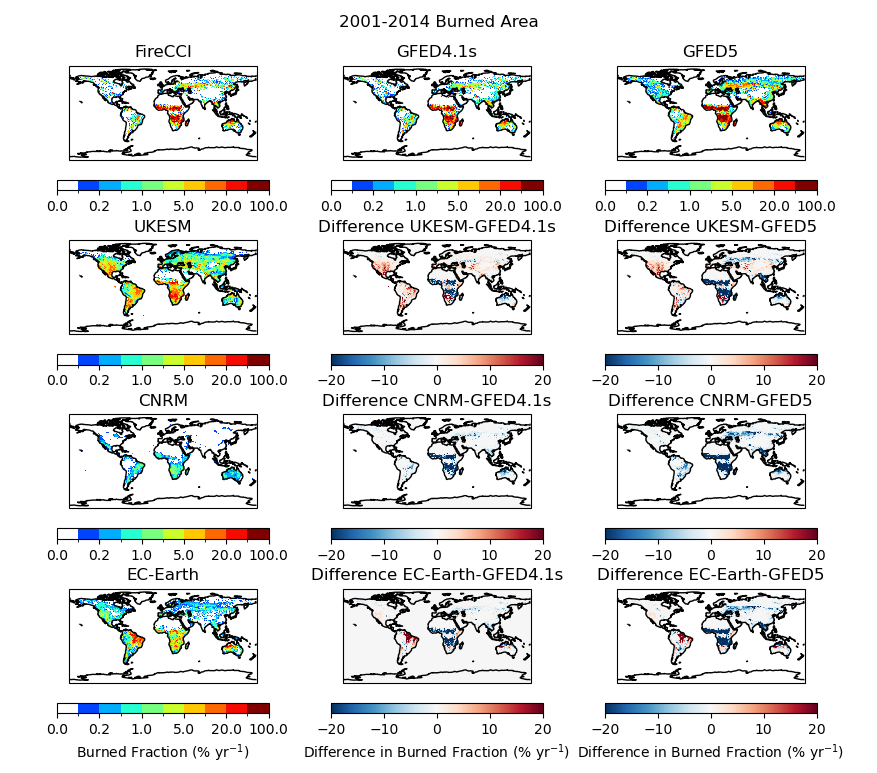
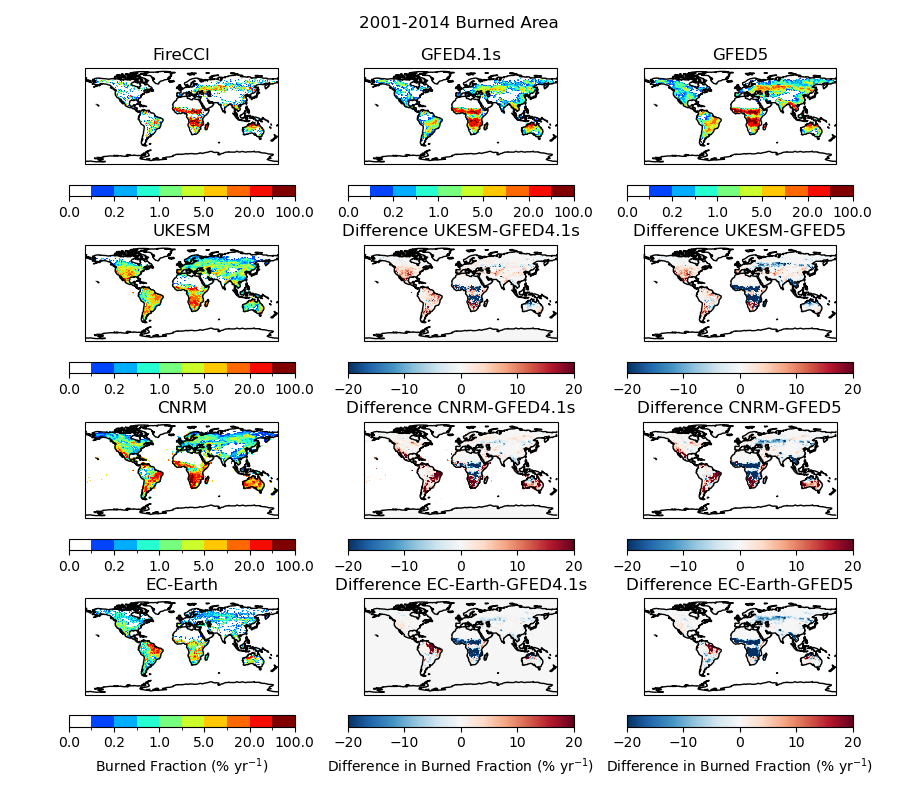
Updating scripts and figures

Changed region(s): [[0.0616, 0.0, 0.9544, 0.9935]]

diff --git a/BA_MAPS.py b/BA_MAPS.py
@@ -105,13 +105,14 @@ ens3 = iris.load_cube(folder+'da916a.py*.pp', var_constraint)
 ens4 = iris.load_cube(folder+'da917a.py*.pp', var_constraint)
 IceMean = (ens1+ens2+ens3+ens4)/4
 
-#Without evolving ice sheets (not currently used)
+#Without evolving ice sheets (not currently used, just here for reference)
 ensA = iris.load_cube(folder+'cy690a.py*.pp', var_constraint)
 ensB = iris.load_cube(folder+'cy691a.py*.pp', var_constraint)
 ensC = iris.load_cube(folder+'cy692a.py*.pp', var_constraint)
 ensD = iris.load_cube(folder+'cy693a.py*.pp', var_constraint)
 NoIceMean = (ensA+ensB+ensC+ensD)/4
 
+#Multiply by sec and days in a year, and 100 to convert frac to %. Find mean over 2001-2014
 UKESM = IceMean.extract(date)*86400*365*100 
 UKESM = UKESM.collapsed('time', iris.analysis.MEAN)  
 NoIceMean = NoIceMean.extract(date)*86400*365*100   
@@ -119,13 +120,16 @@ NoIceMean = NoIceMean.extract(date)*86400*365*100
 
 var_constraint = iris.Constraint(name="burntFractionAll")
 ### CNRM ###
+#Convert daily % to monthly % (as advised by Roland), and aggregate to get annual total. Find mean over 2001-2014
 CNRM = iris.load_cube(folder+'burntFractionAll*CNRM-ESM2-1*.nc', var_constraint)
 CNRM = CNRM.extract(date)   
 iris.coord_categorisation.add_year(CNRM, 'time', name='year')
-CNRM = CNRM.aggregated_by(['year'],iris.analysis.SUM)
+CNRM = CNRM.aggregated_by(['year'],iris.analysis.SUM)*365/12
 CNRM = CNRM.collapsed('time', iris.analysis.MEAN)  
 
 ### ECEarth ###
+# Aggregate monthly data to get annual total. Find mean over 2001-2014
+# Only using 2 ensemble members for now. r1i1p1f1 is missing 2010-2013, and data not yet available from Lund
 ECEarth2 = iris.load(folder+'burntFractionAll*EC-Earth3*r3i1p1f1*.nc', var_constraint)
 for cube in ECEarth2:
     cube.attributes = None
@@ -142,12 +146,14 @@ ECEarth = ECEarth.aggregated_by(['year'],iris.analysis.SUM)
 ECEarth = ECEarth.collapsed('time', iris.analysis.MEAN)  
 
 ### GFED4 ###
+# In fraction so multiply by 100 to convert to %
 GFED4 = iris.load_cube('/data/cr1/cburton/GFED/GFED4s_AnnualTotalBA_1997-2016.nc')
 GFED4 = GFED4.extract(date)*100   
 GFED4 = GFED4.collapsed('time', iris.analysis.MEAN)  
 UKESM,GFED4 = PrepareData(UKESM,GFED4) 
 
 ### GFED5 ###
+# Already in %
 GFED5 = iris.load_cube('/data/cr1/cburton/GFED/GFED5/GFED5_Burned_Percentage.nc')
 GFED5 = GFED5.extract(date)   
 iris.coord_categorisation.add_year(GFED5, 'time', name='year')
@@ -156,6 +162,7 @@ GFED5 = GFED5.collapsed('time', iris.analysis.MEAN)
 UKESM,GFED5 = PrepareData(UKESM,GFED5) 
 
 ### FireCCI ###
+# In fraction so multiply by 100 to convert to %
 CCI = iris.load_cube('/data/cr1/cburton/FireCCI/2001-2016_Annual_BAFrac_CB.nc')
 CCI = CCI.extract(date)*100
 CCI = CCI.collapsed('time', iris.analysis.MEAN)  

diff --git a/Emissions_TS.py b/Emissions_TS.py
@@ -124,8 +124,11 @@ CNRM = iris.load_cube(folder+'fFire*CNRM-ESM2-1*.nc', var_constraint)
 CNRM = CNRM.extract(date)   
 iris.coord_categorisation.add_year(CNRM, 'time', name='year')
 CNRM = CNRM.aggregated_by(['year'],iris.analysis.SUM)*1E6
+LandFrac = iris.load_cube('/scratch/cburton/scratch/OptimESM/sftlf_fx_CNRM-ESM2-1_esm-hist_r1i1p2f2_gr.nc', 'sftlf')/100
+CNRM = CNRM*LandFrac
 CNRM,UKESM = PrepareData(CNRM,UKESM)
 CNRM = CollapseToTimeseries(CNRM)
+
 
 ### ECEarth ###
 ECEarth2 = iris.load(folder+'fFire*EC-Earth3*r3i1p1f1*.nc', var_constraint)
@@ -143,6 +146,8 @@ ECEarth3 = ECEarth3.extract(date)
 ECEarth = (ECEarth2 + ECEarth3)/2
 iris.coord_categorisation.add_year(ECEarth, 'time', name='year')
 ECEarth = ECEarth.aggregated_by(['year'],iris.analysis.SUM)*1E6
+LandFrac = iris.load_cube('/scratch/cburton/scratch/OptimESM/sftlf_fx_EC-Earth3-ESM-1_esm-hist_r5i1p1f1_gr.nc', 'sftlf')/100
+ECEarth.data = ECEarth.data * LandFrac.data
 ECEarth,UKESM = PrepareData(ECEarth,UKESM)
 ECEarth = CollapseToTimeseries(ECEarth)
 
@@ -154,7 +159,7 @@ GFED4 =  CollapseToTimeseries(GFED4)/1000
 
 ### Get GFAS data
 var_constraint = iris.Constraint(cube_func=lambda x: x.var_name == 'cfire')
-GFAS = iris.load_cube('/data/cr1/cburton/GFAS/GFAS.nc', var_constraint)*86400*360 
+GFAS = iris.load_cube('/data/cr1/cburton/GFAS/GFAS.nc', var_constraint)*86400*365 
 GFAS,UKESM = PrepareData(GFAS,UKESM)
 years = range(2000, 2014)
 F = []

diff --git a/BA_TS.py b/BA_TS.py
@@ -121,13 +121,17 @@ UKESM = IceMean.extract(date)*86400*365
 
 var_constraint = iris.Constraint(name="burntFractionAll")
 ### CNRM ###
+#Convert daily % to monthly % (as advised by Roland), and aggregate to get annual total. 
+#Need to divide land fraction by 100
 CNRM = iris.load_cube(folder+'burntFractionAll*CNRM-ESM2-1*.nc', var_constraint)
-CNRM = CNRM.extract(date)   
+CNRM = CNRM.extract(date)*365/12   
 iris.coord_categorisation.add_year(CNRM, 'time', name='year')
 CNRM = CNRM.aggregated_by(['year'],iris.analysis.SUM)/100
-
+LandFrac = iris.load_cube('/scratch/cburton/scratch/OptimESM/sftlf_fx_CNRM-ESM2-1_esm-hist_r1i1p2f2_gr.nc', 'sftlf')/100
+CNRM = CNRM*LandFrac
 
 ### ECEarth ###
+#Need to divide land fraction by 100
 ECEarth2 = iris.load(folder+'burntFractionAll*EC-Earth3*r3i1p1f1*.nc', var_constraint)
 for cube in ECEarth2:
     cube.attributes = None
@@ -141,7 +145,8 @@ ECEarth = (ECEarth2 + ECEarth3)/2
 ECEarth = ECEarth.extract(date)  
 iris.coord_categorisation.add_year(ECEarth, 'time', name='year')
 ECEarth = ECEarth.aggregated_by(['year'],iris.analysis.SUM)/100
-
+LandFrac = iris.load_cube('/scratch/cburton/scratch/OptimESM/sftlf_fx_EC-Earth3-ESM-1_esm-hist_r5i1p1f1_gr.nc', 'sftlf')/100
+ECEarth.data = ECEarth.data * LandFrac.data
 
 ### GFED4 ###
 GFED4 = iris.load_cube('/data/cr1/cburton/GFED/GFED4s_AnnualTotalBA_1997-2016.nc')
